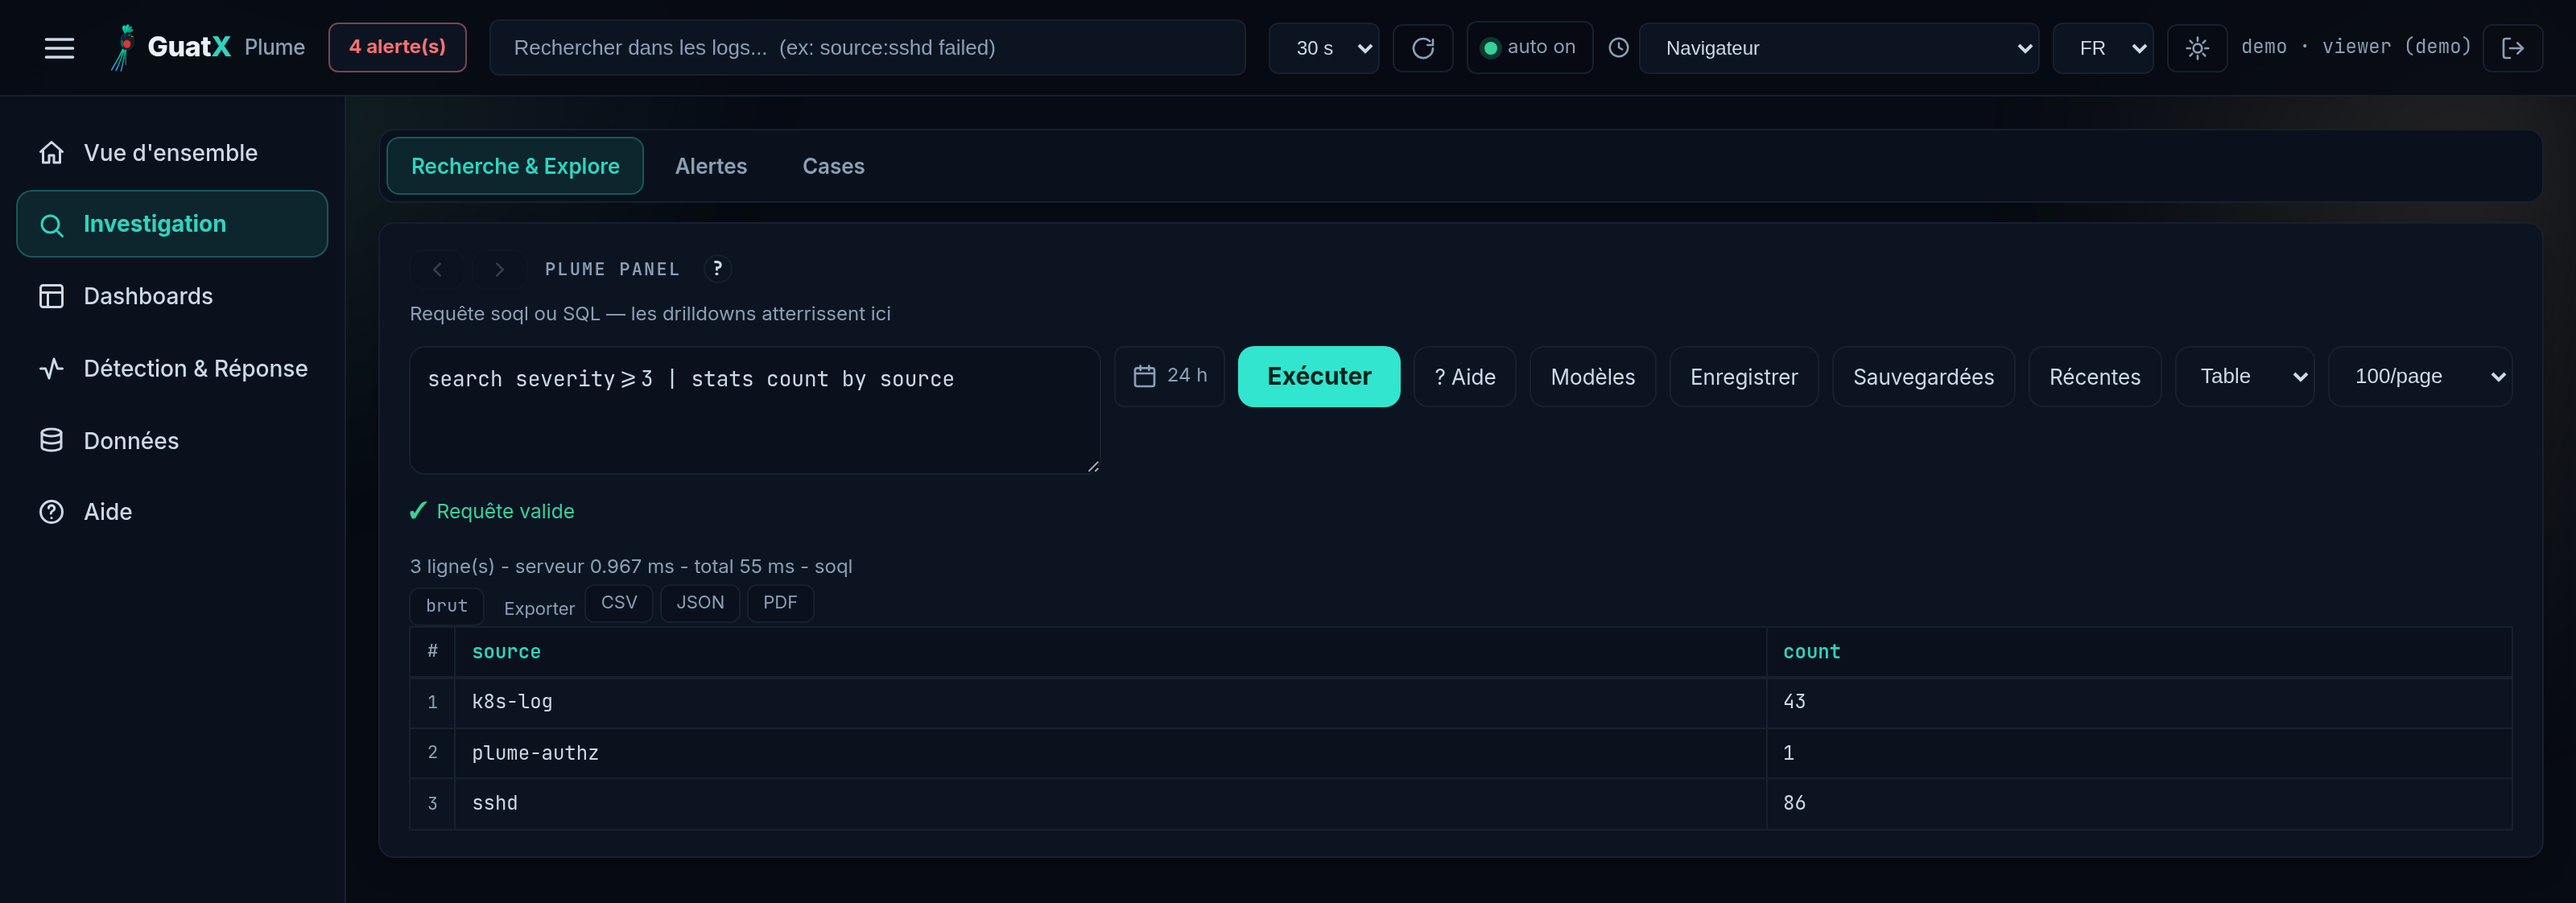
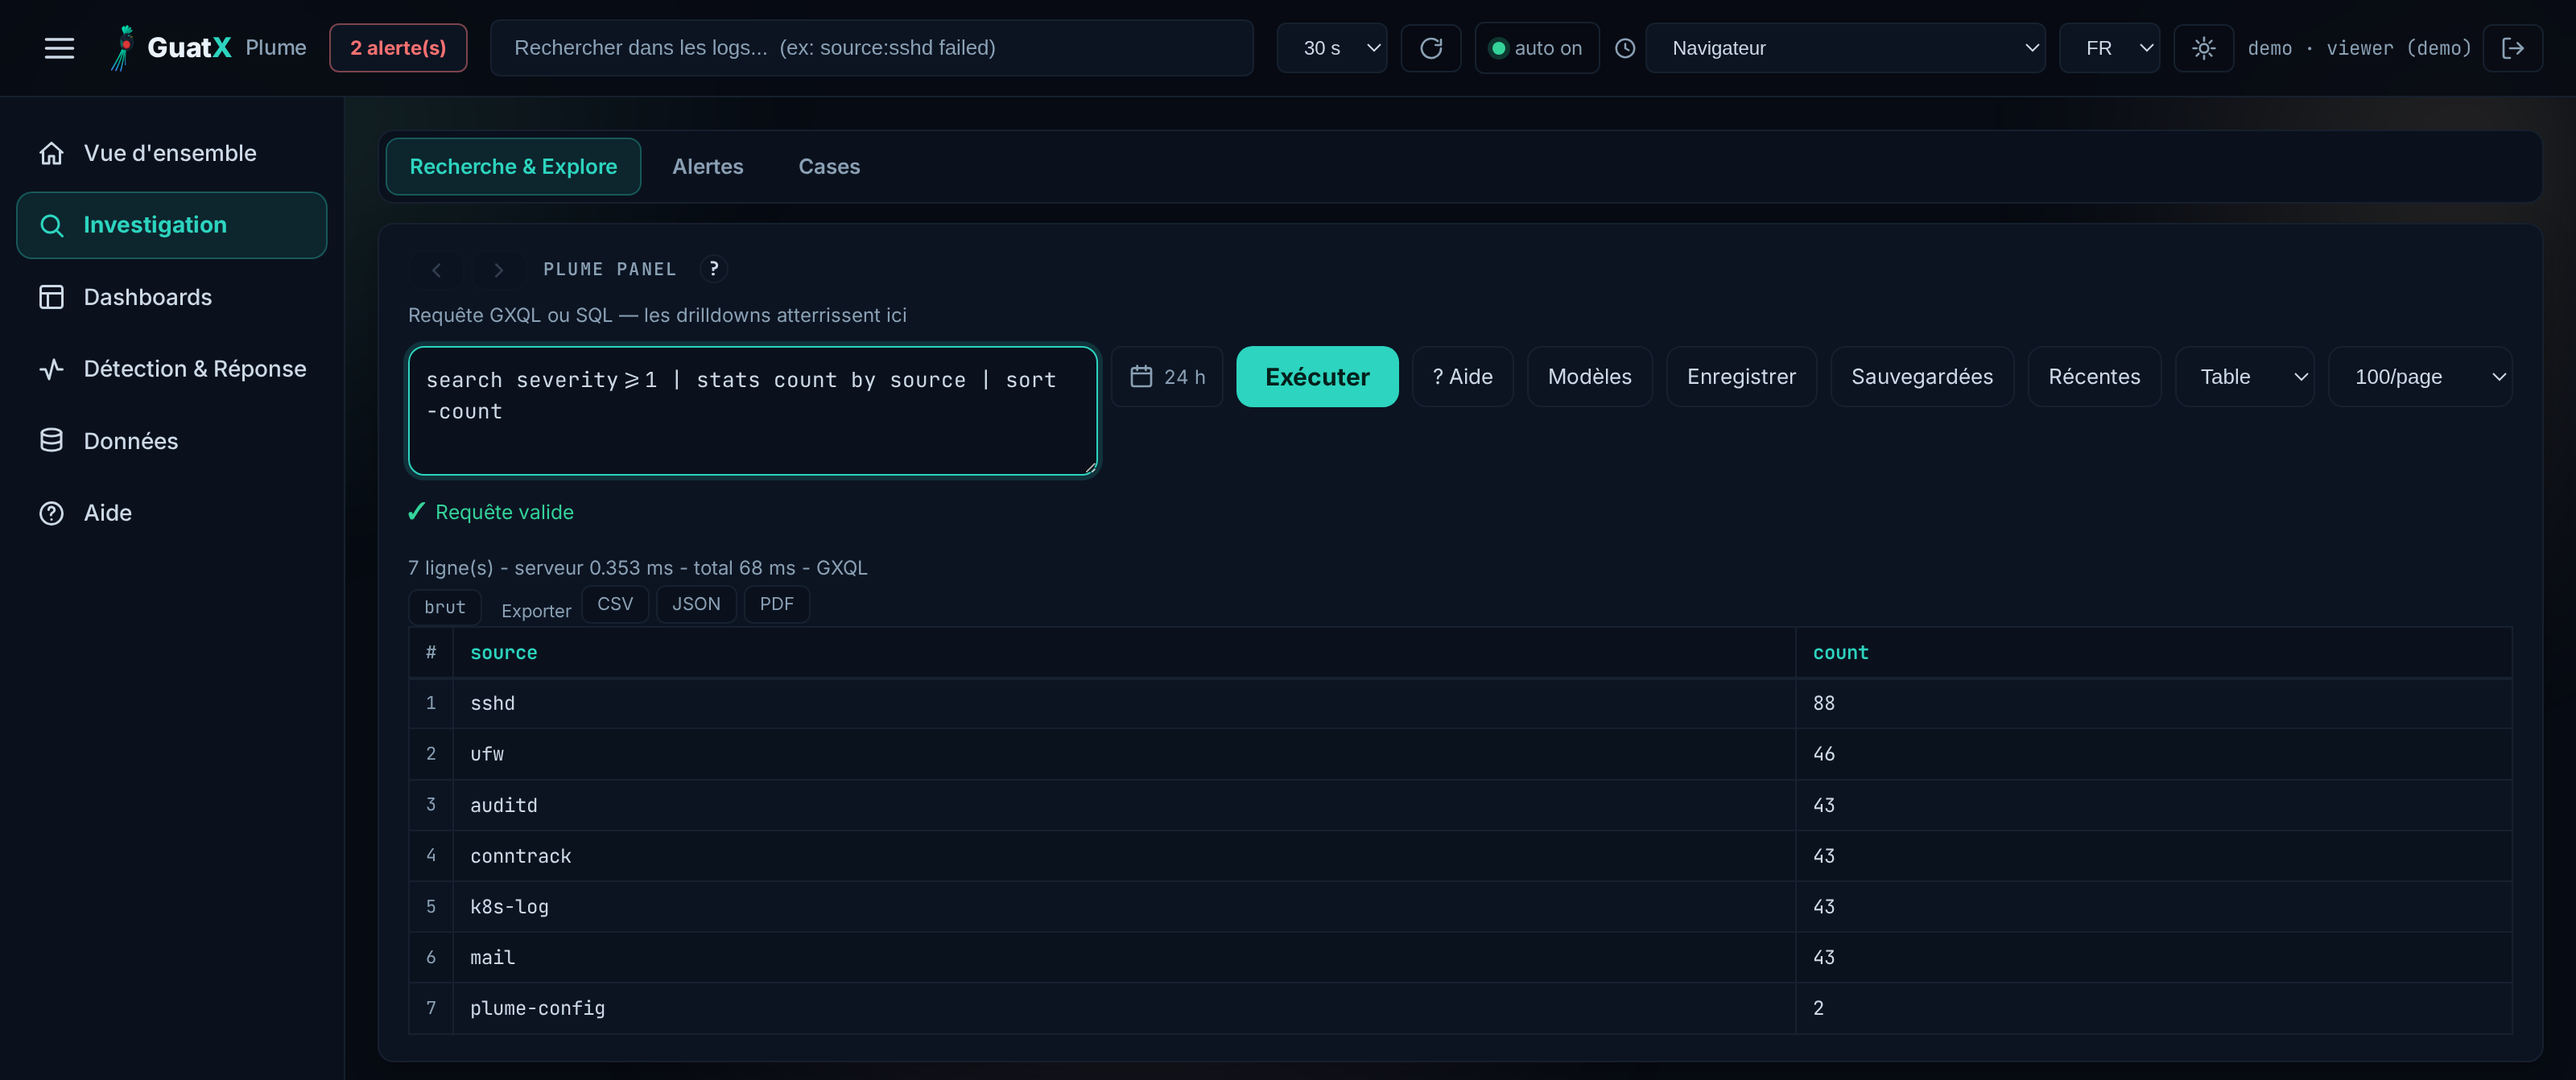
Refaire la démo animée et la capture Explore sur le nom GXQL, et prouver leur non-fuite frame par frame
Les deux artefacts datant d'avant le renommage du langage montraient encore « soql »
dans leurs PIXELS, là où aucun grep du dépôt ne pouvait le voir. Le produit était déjà
à jour (`web/index.html` rend « Requête GXQL ou SQL », `web/viz.js` rend « - GXQL ») :
seules les images retardaient.

CE QUI EST REFAIT
- `docs/img/plume-demo.gif` — retourné entièrement. Parcours : Explore au repos ->
  frappe GXQL avec complétion IDE-like (commandes stats/sort/fields/eventstats, puis
  fonctions count/sum/avg/min/max/dc, puis champs) -> exécution avec le pied de page
  « - GXQL » -> Alertes groupées par règle en « Tous statuts » -> liste des cases ->
  détail d'incident (timeline, SLA, événements liés). L'ancien s'arrêtait aux alertes ;
  l'alt-text du README promettait déjà « incident-case investigation », désormais tenu.
  96 -> 133 frames, 8,00 -> 11,08 s, et 2,9 Mio -> 704 Kio (palette 128 + delta
  `diff_mode=rectangle`).
- `docs/img/03-explore-soql.png` -> `docs/img/03-explore-gxql.png`, recapturée. Le NOM
  portait « soql » autant que les pixels. Requête volontairement plus riche (7 sources
  agrégées au lieu de 3) et viewport mesuré sur le bas du contenu pour n'avoir ni ligne
  coupée ni bande morte. Seule référence du dépôt : `README.md`.

Données 100 % SYNTHÉTIQUES : instance jetable sous `PLUME_DEMO=1` (hôte `demo-host`,
IP en RFC 5737), jamais la base de production ni celle du banc.

COMPTEURS OCR (tesseract -l eng+fra, sur les frames extraites de l'artefact livré)
[…]

diff --git a/README.md b/README.md
@@ -71,7 +71,7 @@ conception) — dont [SDK](docs/SDK.md) · [CIM](docs/CIM.md) · [DSL de parsing
 <table>
 <tr>
 <td width="50%"><a href="docs/img/06-dashboard-light.png"><img src="docs/img/06-dashboard-light.png" alt="Overview"></a><br><sub><b>Vue d'ensemble</b> — firewall, contrôles, hôtes et fraîcheur des sources</sub></td>
-<td width="50%"><a href="docs/img/03-explore-soql.png"><img src="docs/img/03-explore-soql.png" alt="GXQL"></a><br><sub><b>Explore / GXQL</b> — recherche façon SPL compilée en SQL sûr, en lecture seule</sub></td>
+<td width="50%"><a href="docs/img/03-explore-gxql.png"><img src="docs/img/03-explore-gxql.png" alt="GXQL"></a><br><sub><b>Explore / GXQL</b> — recherche façon SPL compilée en SQL sûr, en lecture seule</sub></td>
 </tr>
 <tr>
 <td><a href="docs/img/08-case-detail.png"><img src="docs/img/08-case-detail.png" alt="Case"></a><br><sub><b>Cases d'incident</b> — timeline, événements/alertes liés, SLA</sub></td>
